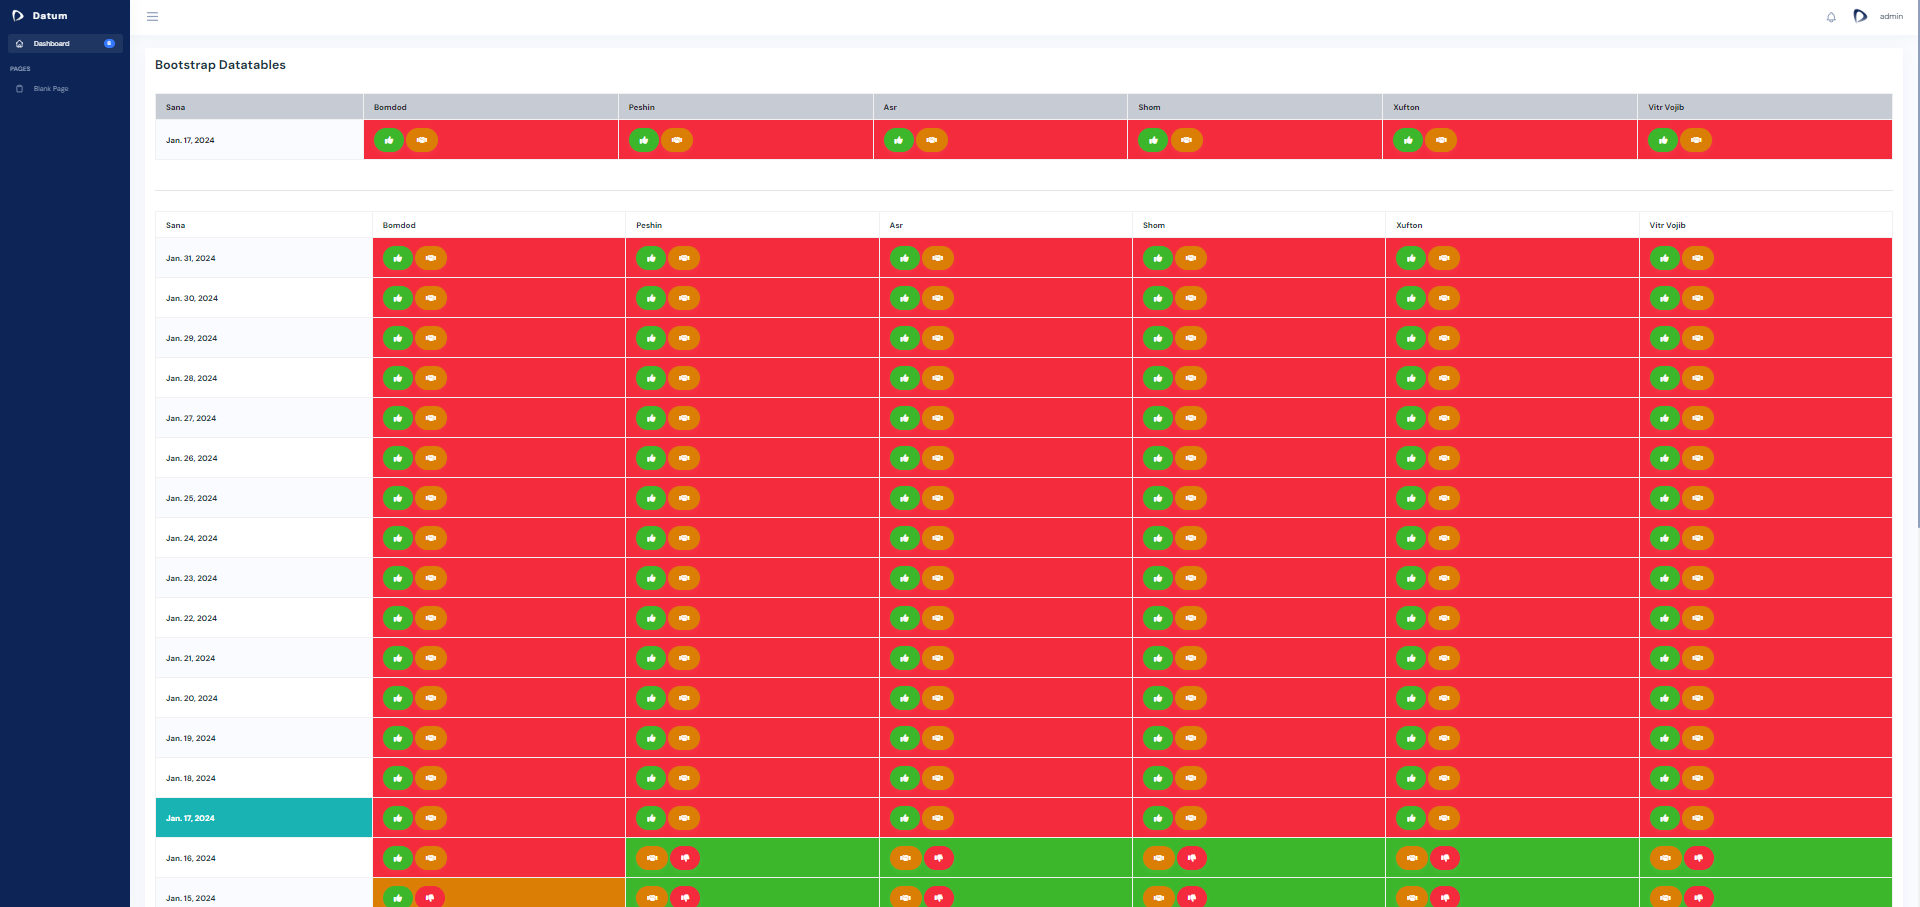
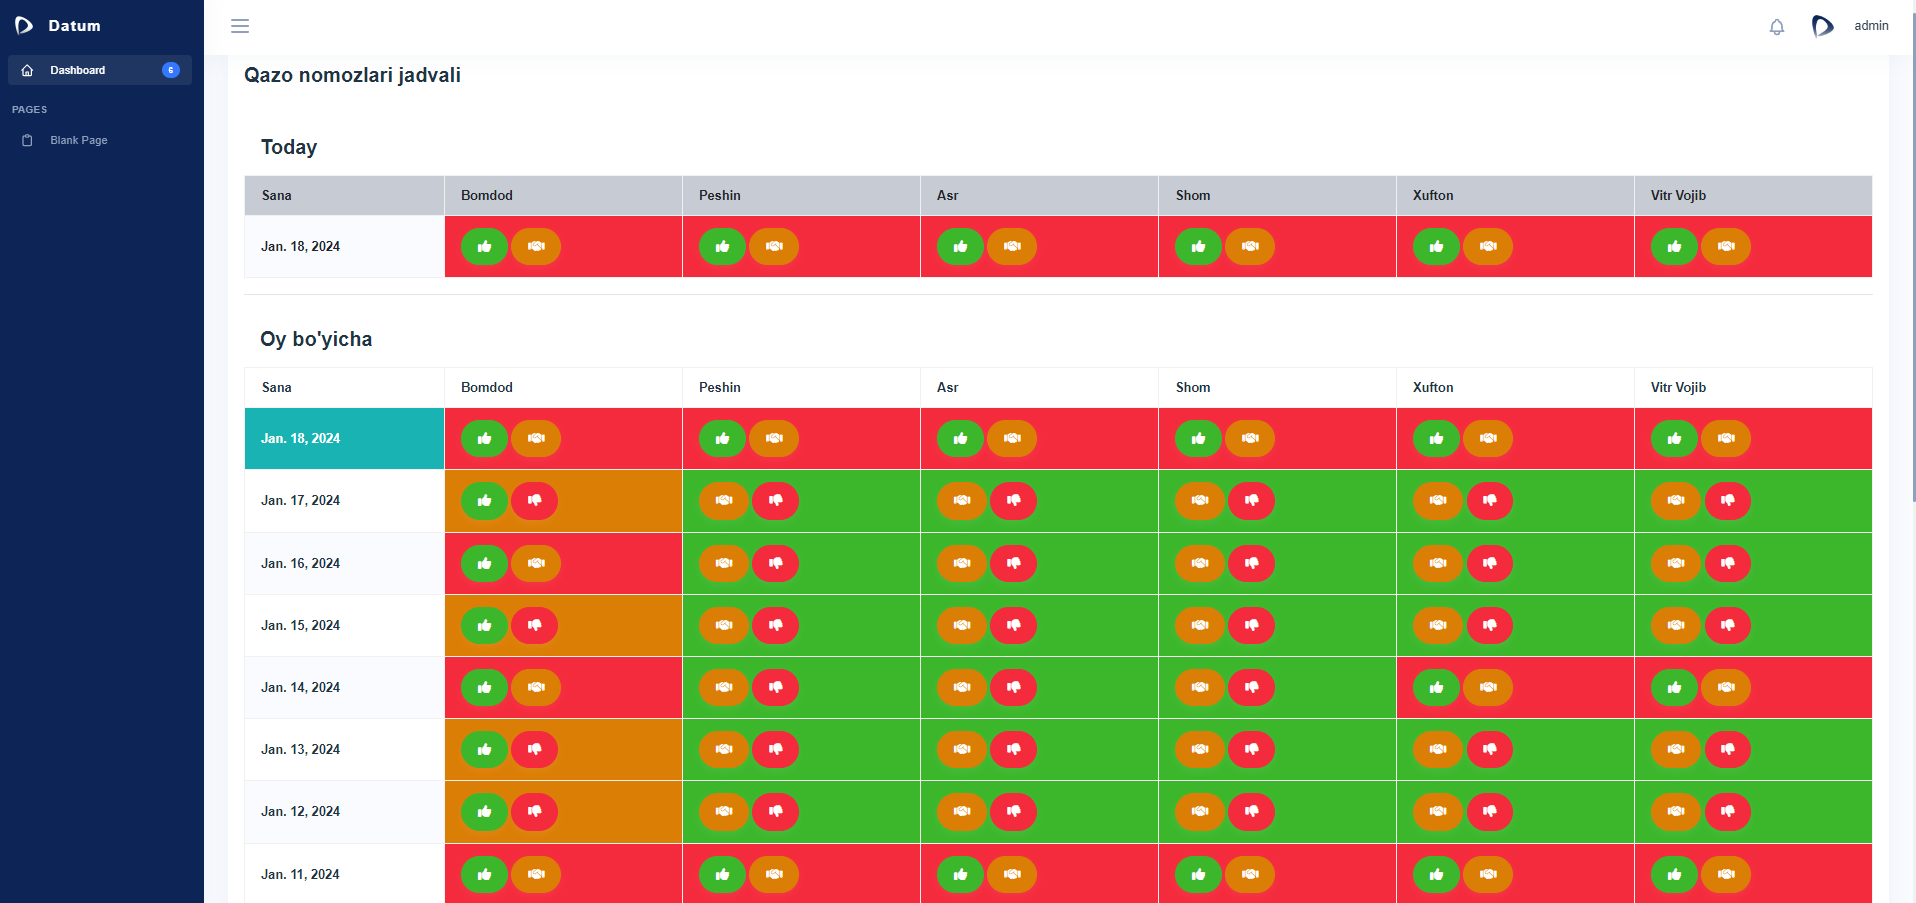
Qazolarni hisoblash qismi basic home html yaratildi

diff --git a/templates/pages/index.html b/templates/pages/index.html
@@ -12,10 +12,15 @@ Tashkent, Uzbekistan
 <div class="card">
   <div class="card-header d-flex justify-content-between">
      <div class="header-title">
-        <h4 class="card-title">Bootstrap Datatables</h4>
+        <h4 class="card-title">Qazo nomozlari jadvali</h4>
      </div>
   </div>
   <div class="card-body">
+      <div class="card-header d-flex justify-content-between">
+         <div class="header-title">
+            <h4 class="card-title">Today</h4>
+         </div>
+      </div>
      <div class="table-responsive">
         <table  class="table table-striped table-bordered bg-light">
             <thead>
@@ -68,9 +73,12 @@ Tashkent, Uzbekistan
             </tbody>
 
         </table>
-         <br>
          <hr>
-         <br>
+         <div class="card-header d-flex justify-content-between">
+             <div class="header-title">
+                <h4 class="card-title">Oy bo'yicha</h4>
+             </div>
+          </div>
 
         <table class="table table-striped table-bordered">
            <thead>
@@ -85,7 +93,7 @@ Tashkent, Uzbekistan
               </tr>
            </thead>
            <tbody>
-                {% for i in all %}
+                {% for i in to_now %}
                <tr {% if today == i %} class="bg-info"{% endif %}>
                  <td><b>{{ i.date }}</b></td>
                  <td class={{ i.bomdod }}> <!-- Bomdod  -->
